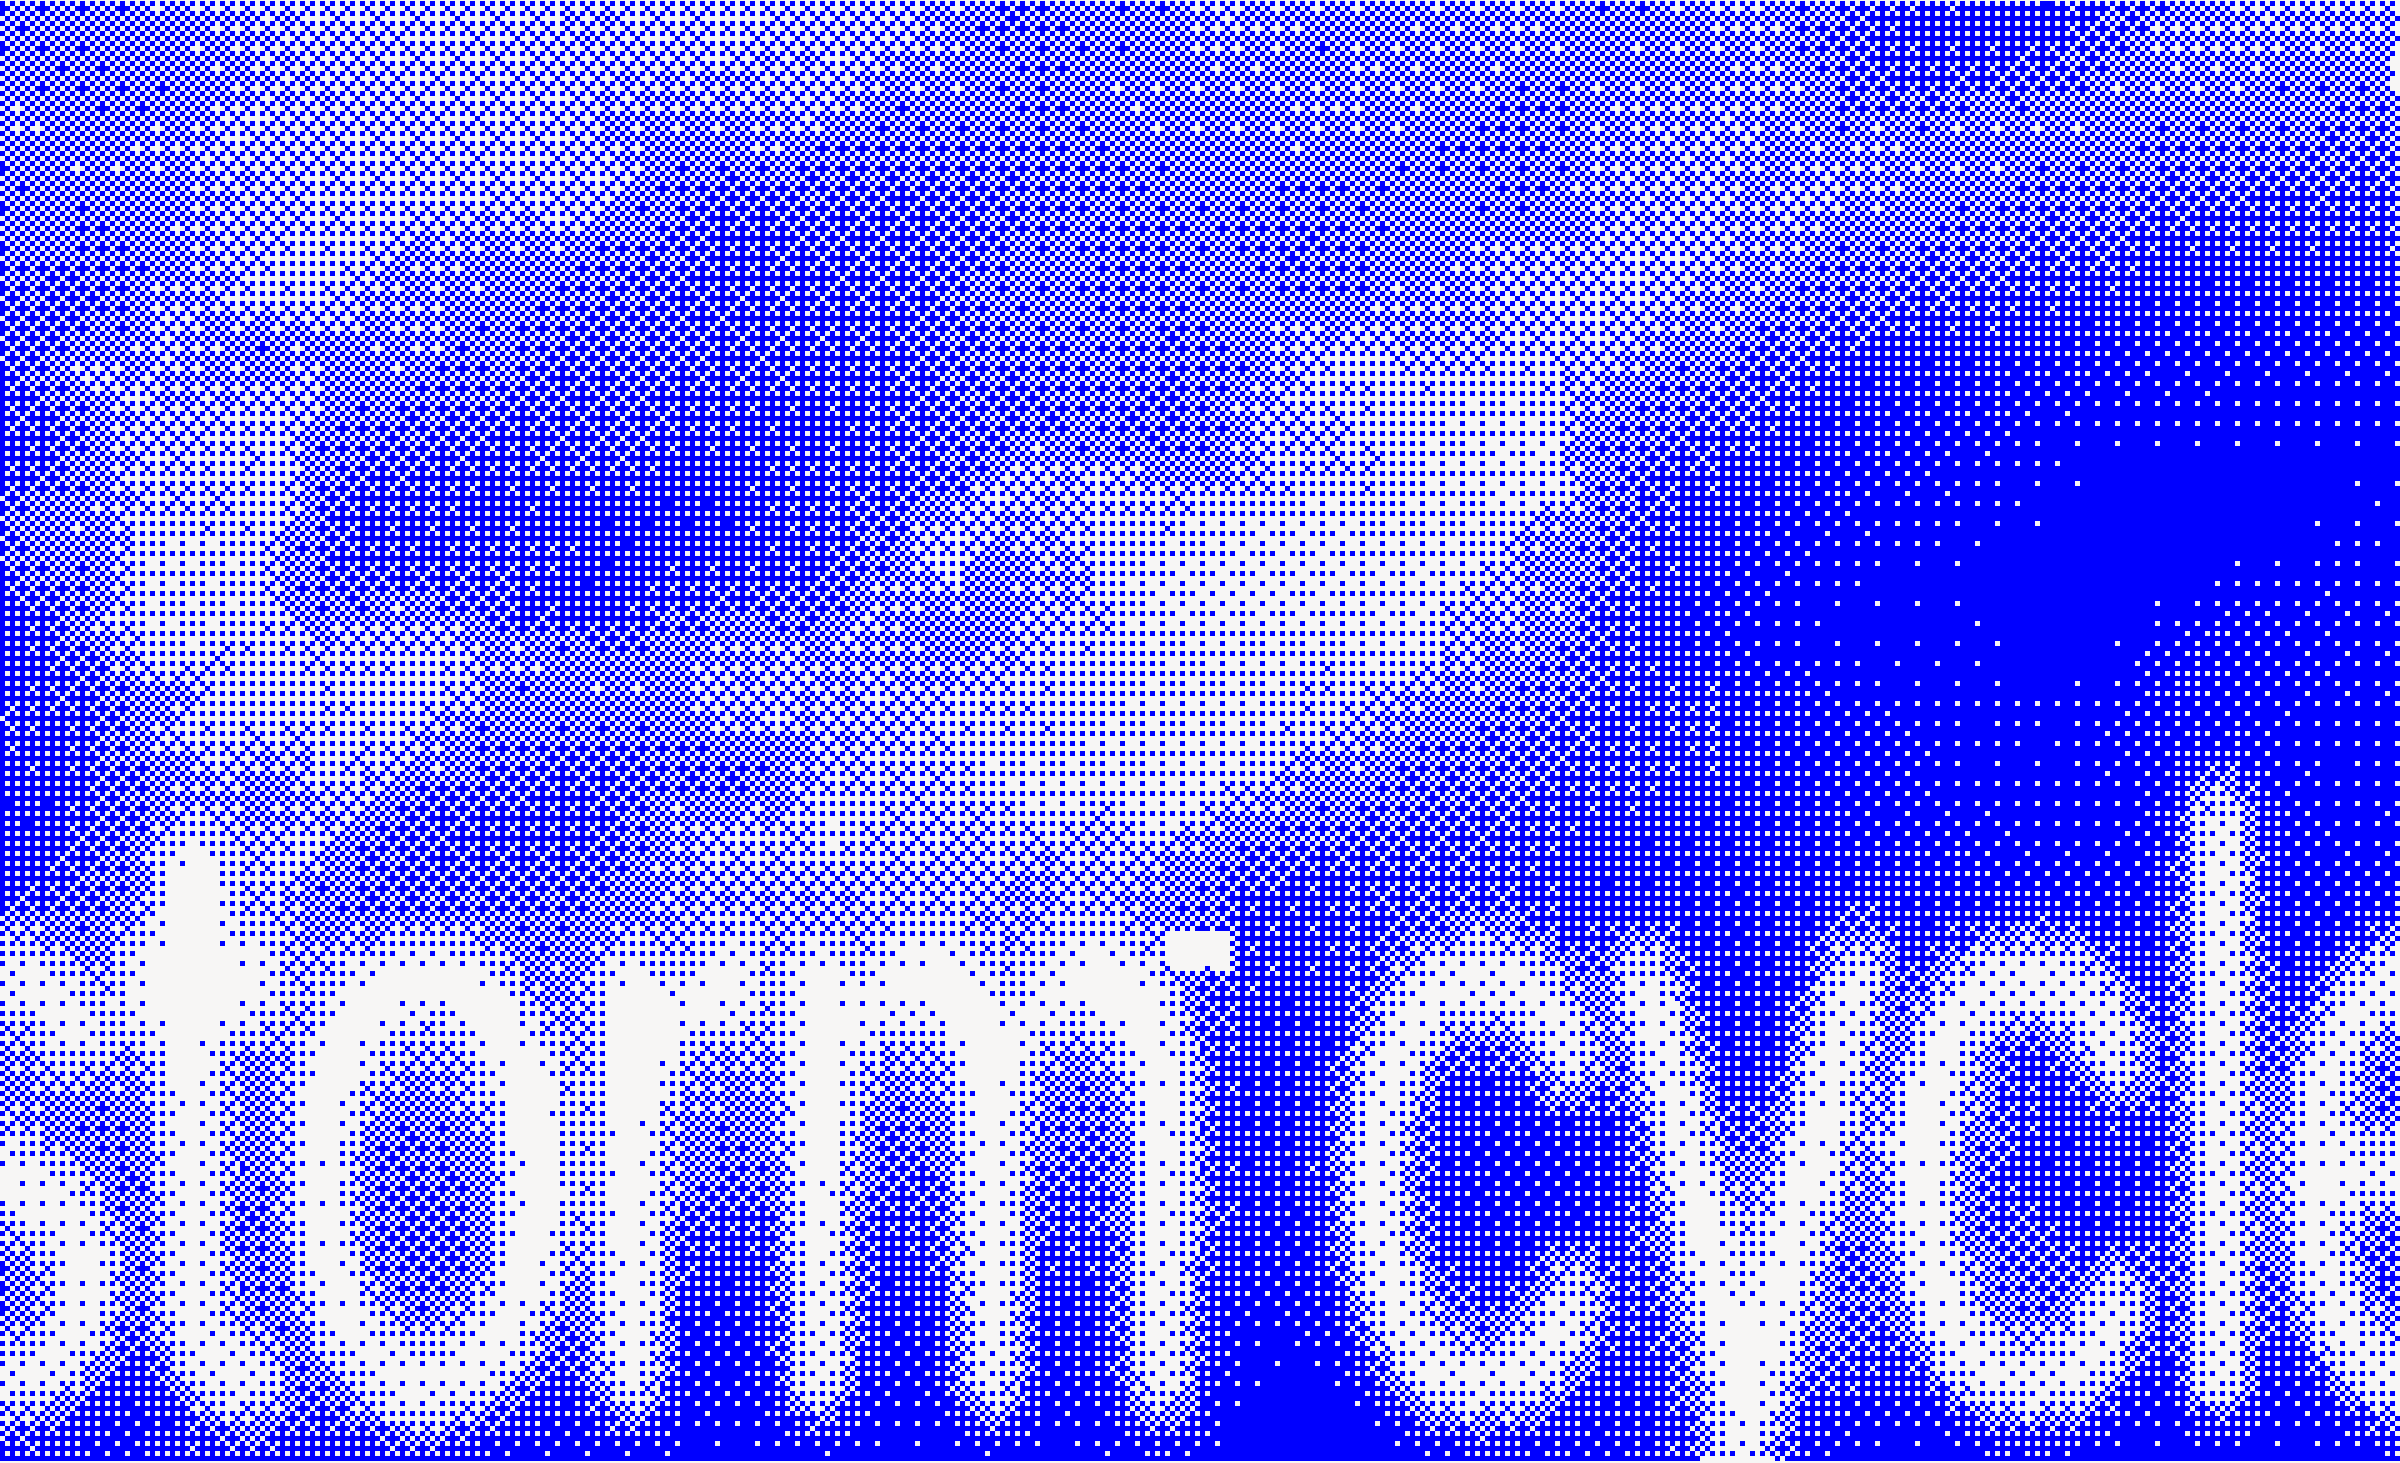
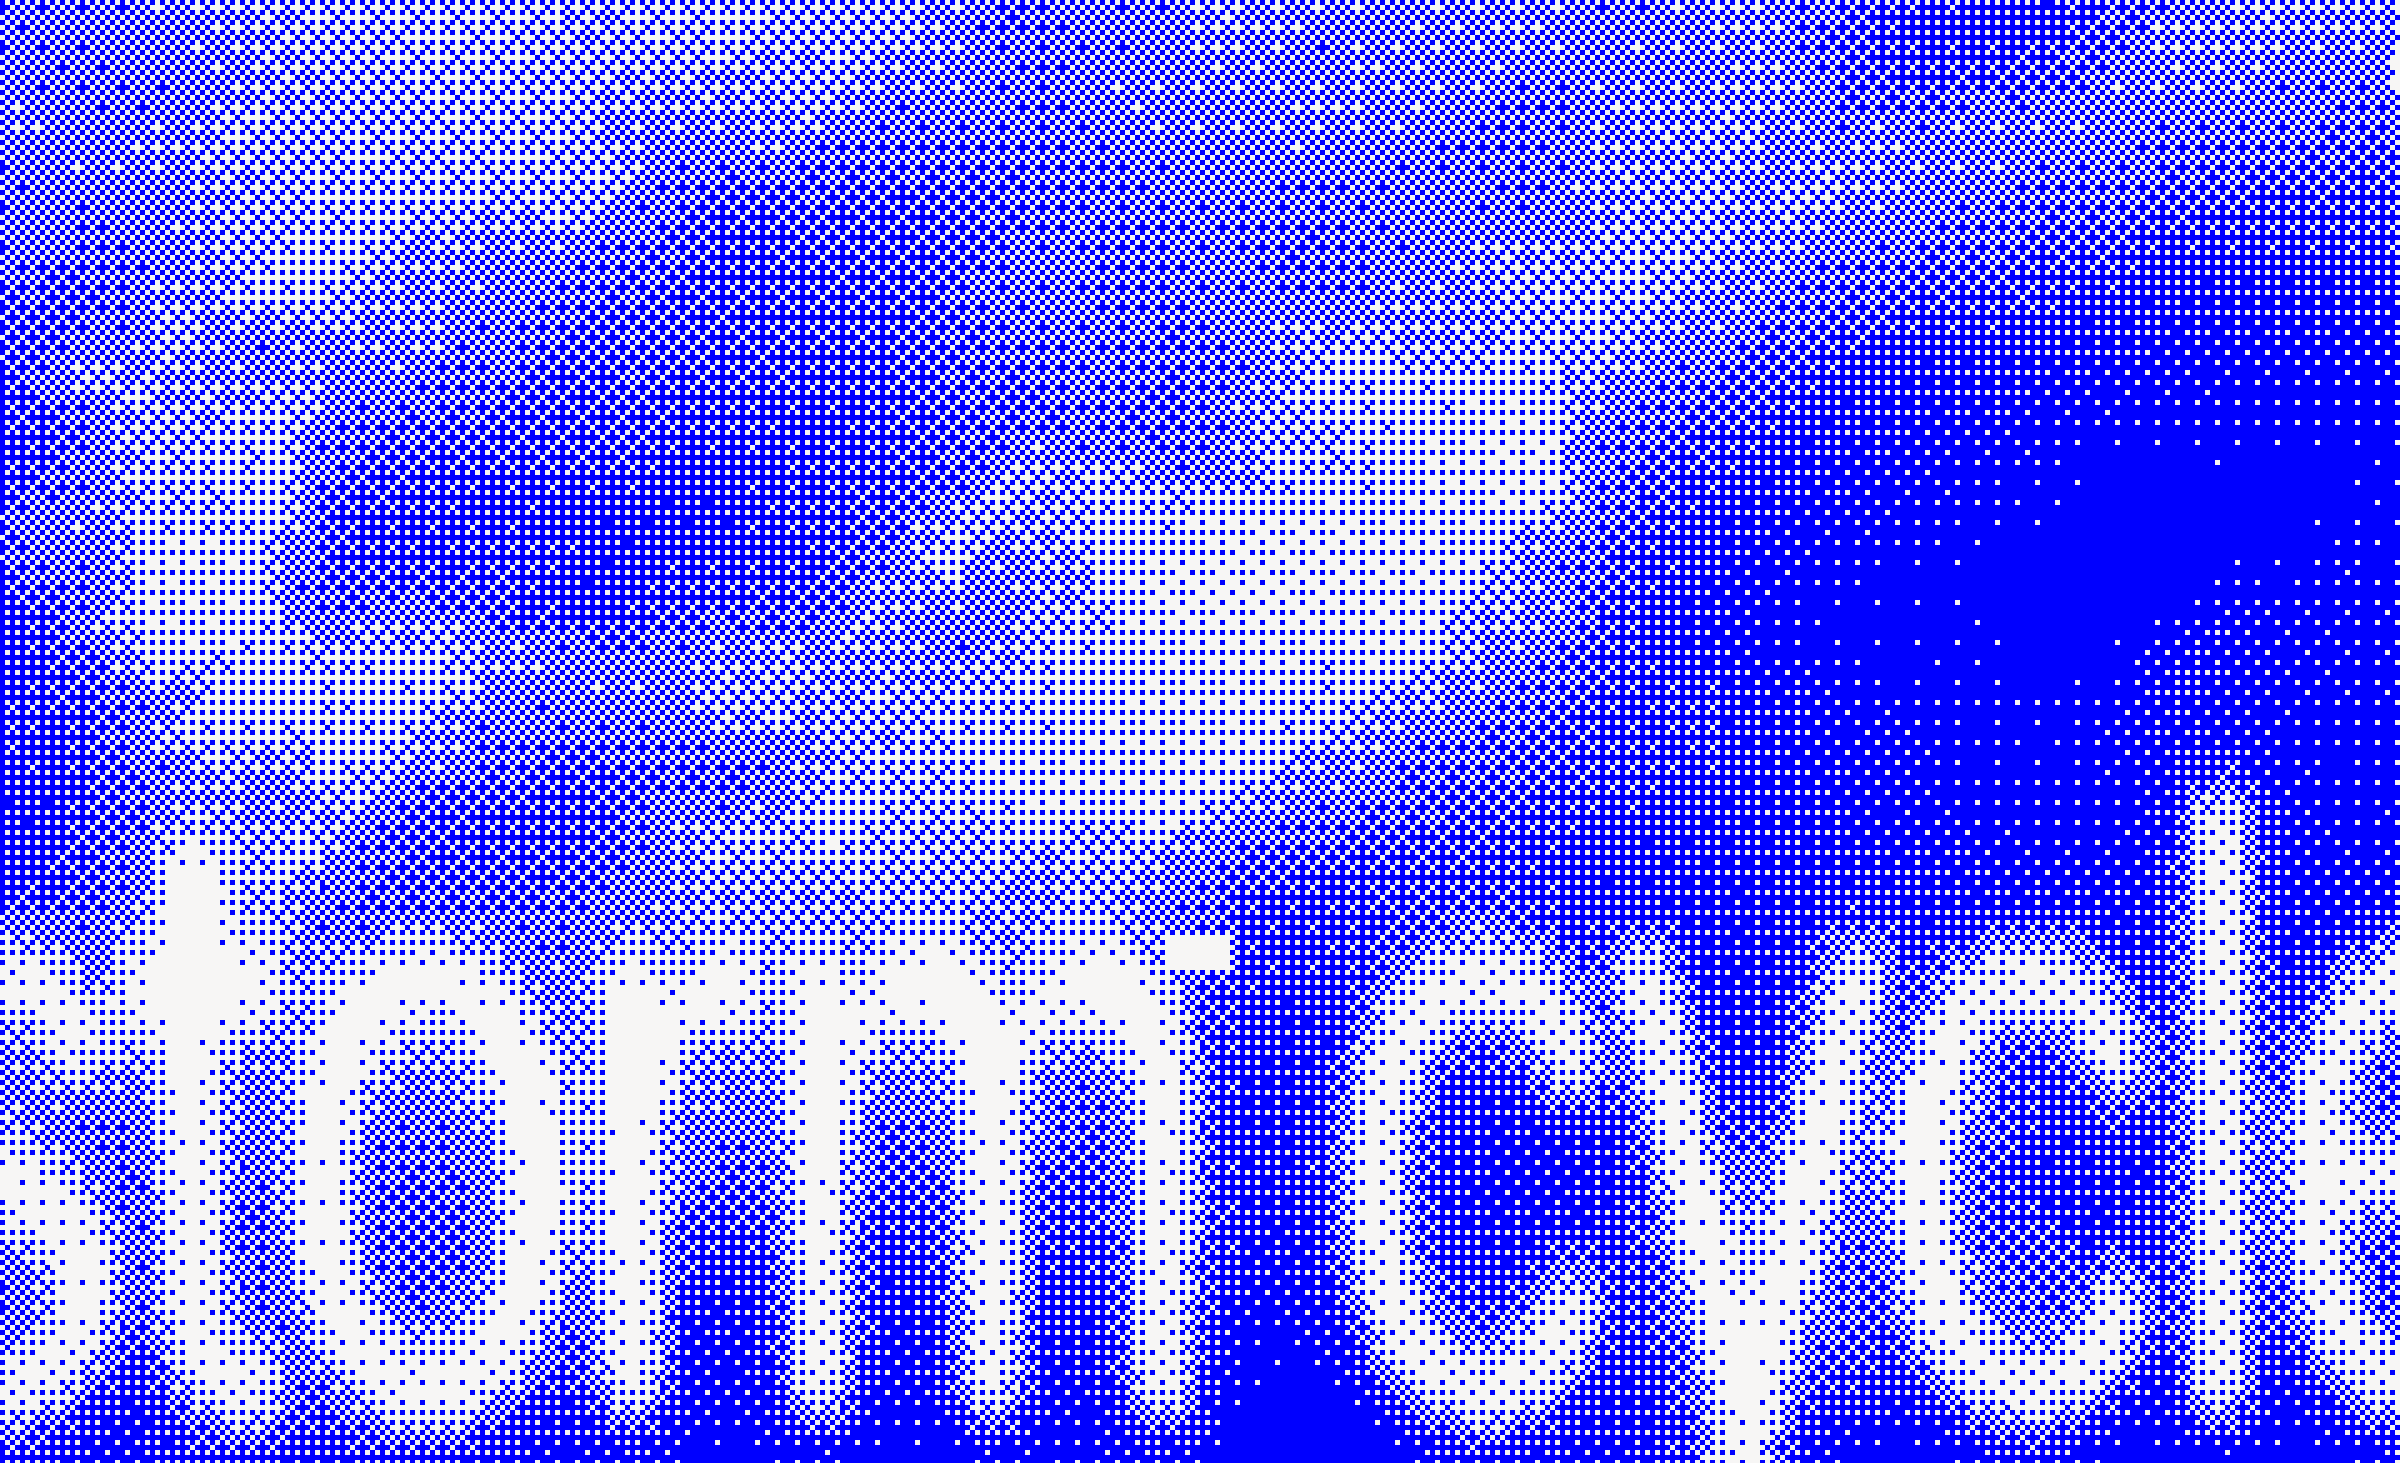
fix(travaux): nouveau visuel 7eyes centré, plus de liseré crème en bord des visuels pixel
- 7eyes : logo seul, recentré sur ses propres limites avant impression
- work-pixel.py : grille de tramage arrondie au-dessus (plus de lignes vides en
  bord), six visuels régénérés

diff --git a/scripts/work-pixel.py b/scripts/work-pixel.py
@@ -47,15 +47,16 @@ def plate(name: str, font_path: str) -> Image.Image:
 
 def pixel_print(gray: Image.Image) -> Image.Image:
     gray = ImageOps.autocontrast(gray, cutoff=1)
-    cols, rows = W // PX, H // PX
+    # grille qui couvre toute l'image (arrondie au-dessus puis recadrée) : une
+    # grille arrondie au-dessous laissait des lignes vides en bord, rendues en
+    # liseré crème sur les plaques bleues
+    cols, rows = -(-W // PX), -(-H // PX)
     small = np.asarray(gray.resize((cols, rows), Image.BOX), dtype=np.float32) / 255
     threshold = (BAYER + 0.5) / 64
     tile = np.tile(threshold, (rows // 8 + 1, cols // 8 + 1))[:rows, :cols]
     ink = (1 - small > tile).astype(np.uint8) * 255
-    big = Image.fromarray(ink, "L").resize((cols * PX, rows * PX), Image.NEAREST)
-    canvas = Image.new("L", (W, H), 0)
-    canvas.paste(big, ((W - cols * PX) // 2, (H - rows * PX) // 2))
-    a = np.asarray(canvas, dtype=np.float32)[..., None] / 255
+    big = Image.fromarray(ink, "L").resize((cols * PX, rows * PX), Image.NEAREST).crop((0, 0, W, H))
+    a = np.asarray(big, dtype=np.float32)[..., None] / 255
     return Image.fromarray((CREAM + (BLUE - CREAM) * a).astype(np.uint8), "RGB")
 
 
